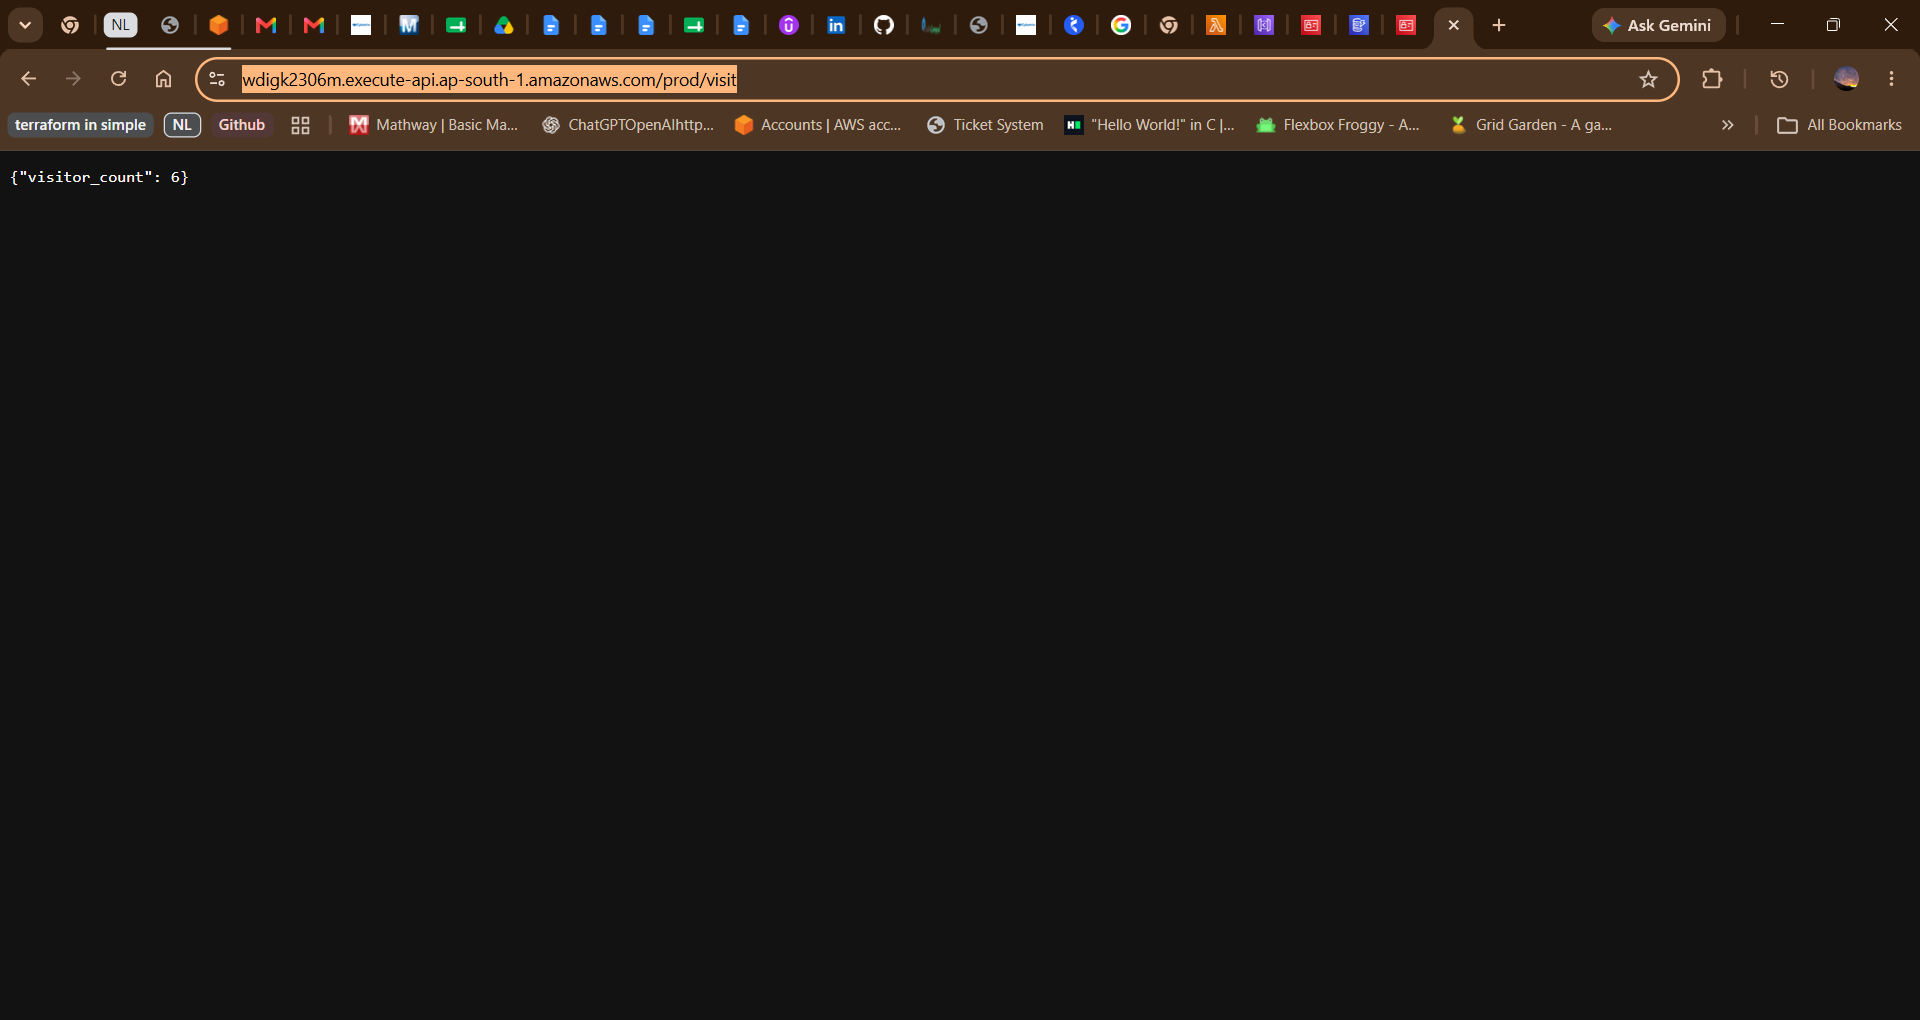
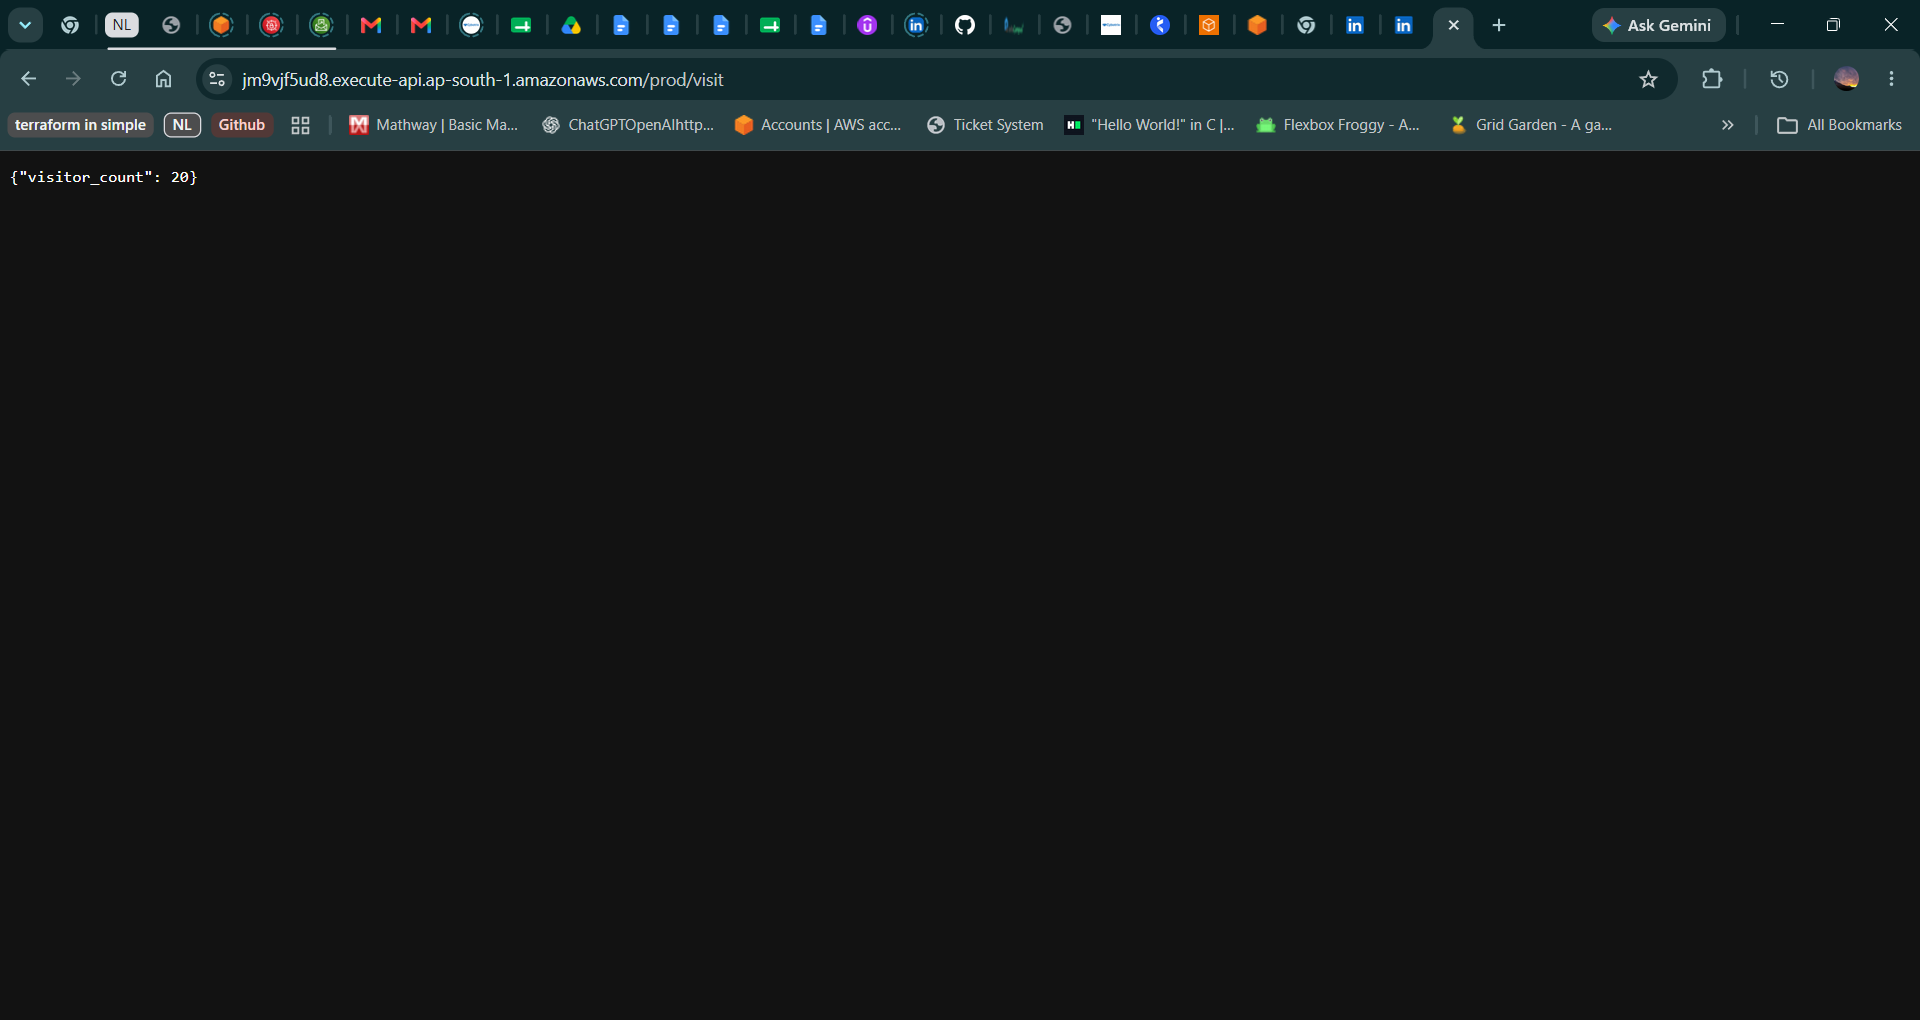
Readme Updating

Changed region(s): [[0.0, 0.0, 1.0, 0.152]]

diff --git a/lambda/lambda_function.py b/lambda/lambda_function.py
@@ -7,7 +7,7 @@ import json
 import boto3
 
 dynamodb = boto3.resource('dynamodb')
-table = dynamodb.Table('VisitorCounter')
+table = dynamodb.Table('VisitorCounterTerraform')
 
 def lambda_handler(event, context):
 

diff --git a/README2.md b/README2.md
@@ -1,0 +1,202 @@
+# AWS Serverless Visitor Counter
+
+## Overview
+
+A serverless visitor counter application built using AWS Lambda, API Gateway, DynamoDB, IAM, and Terraform.
+
+The application exposes a public API endpoint that increments and returns the current visitor count. All infrastructure components are provisioned and managed using Terraform.
+
+---
+
+## Architecture
+
+```text
+Client
+   ↓
+API Gateway
+   ↓
+AWS Lambda
+   ↓
+Amazon DynamoDB
+```
+
+---
+
+## Technologies Used
+
+### Cloud Services
+
+* AWS Lambda
+* Amazon API Gateway
+* Amazon DynamoDB
+* AWS IAM
+* Amazon CloudWatch
+
+### Infrastructure as Code
+
+* Terraform
+
+### Programming Language
+
+* Python 3.13
+
+### Version Control
+
+* Git
+* GitHub
+
+---
+
+## Features
+
+* Serverless architecture
+* Public API endpoint
+* Visitor count tracking
+* DynamoDB data persistence
+* Infrastructure provisioning using Terraform
+* CloudWatch logging
+* IAM-based access control
+
+---
+
+## Project Structure
+
+```text
+aws-serverless-visitor-counter/
+│
+├── lambda/
+│   ├── lambda_function.py
+│   └── visitor-counter.zip
+│
+├── terraform/
+│   ├── main.tf
+│   └── .terraform.lock.hcl
+│
+├── screenshots/
+│
+├── README.md
+└── .gitignore
+```
+
+---
+
+## Infrastructure Provisioned by Terraform
+
+The following resources are created and managed using Terraform:
+
+* DynamoDB Table
+* Lambda Function
+* IAM Role
+* IAM Policies
+* API Gateway
+* API Gateway Route
+* Lambda Permissions
+
+---
+
+## API Endpoint
+
+### Request
+
+```http
+GET /visit
+```
+
+### Sample Response
+
+```json
+{
+  "visitor_count": 20
+}
+```
+
+---
+
+## Deployment
+
+### Initialize Terraform
+
+```bash
+terraform init
+```
+
+### Validate Configuration
+
+```bash
+terraform validate
+```
+
+### Review Changes
+
+```bash
+terraform plan
+```
+
+### Deploy Infrastructure
+
+```bash
+terraform apply
+```
+
+### Destroy Infrastructure
+
+```bash
+terraform destroy
+```
+
+---
+
+## Screenshots
+
+### DynamoDB Table
+
+![DynamoDB](screenshots/dynamodb-table.png)
+
+### Lambda Function
+
+![Lambda](screenshots/lambda.png)
+
+### API Gateway
+
+![API](screenshots/api-gateway.png)
+
+### Terraform Apply Output
+
+![output](screenshots/terraform-ouput.png)
+
+### Browser/API Response
+
+![Response](screenshots/browser-response.png)
+
+---
+
+## Learning Outcomes
+
+This project demonstrates:
+
+* Infrastructure as Code (Terraform)
+* Serverless Application Development
+* AWS Lambda Deployment
+* API Gateway Integration
+* DynamoDB Operations
+* IAM Role and Policy Management
+* Terraform State Management
+* Git and GitHub Version Control
+
+---
+
+## Future Improvements
+
+* Use Lambda Environment Variables
+* Split Terraform configuration into multiple files
+* Configure Remote Terraform State using S3
+* Add GitHub Actions CI/CD Pipeline
+* Add Custom Domain for API Gateway
+* Add Monitoring and Alerting
+* Implement Automated Testing
+
+---
+
+## Author
+
+Akshay Sunil